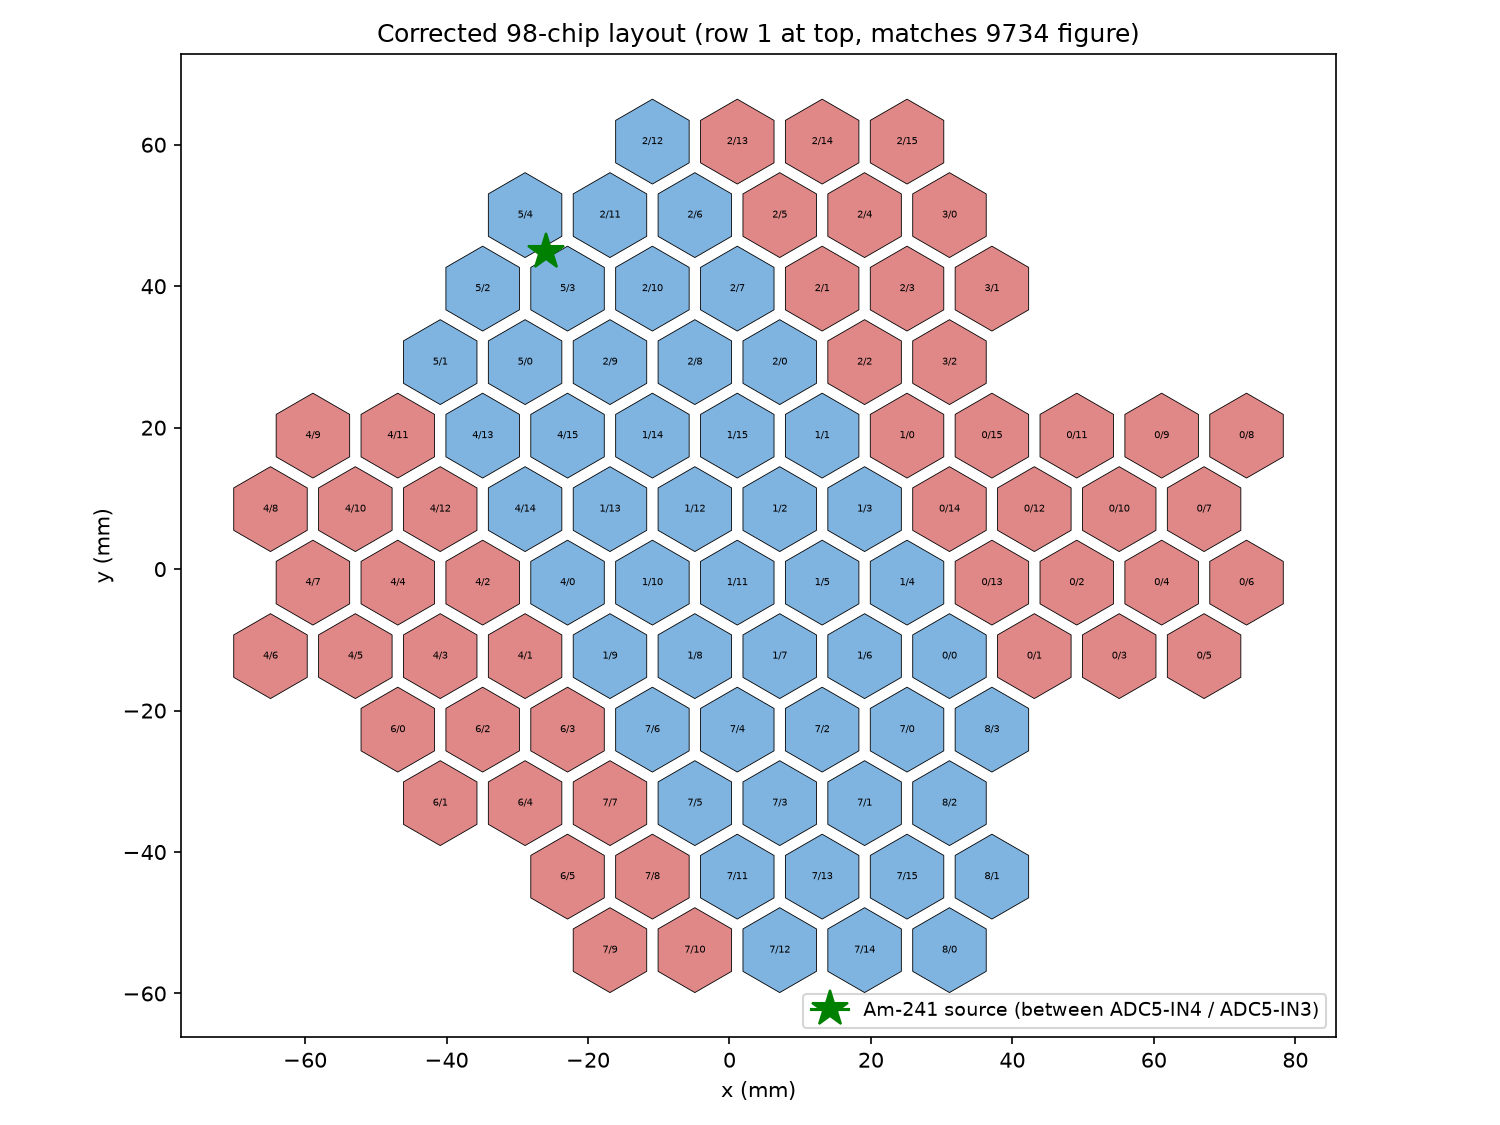
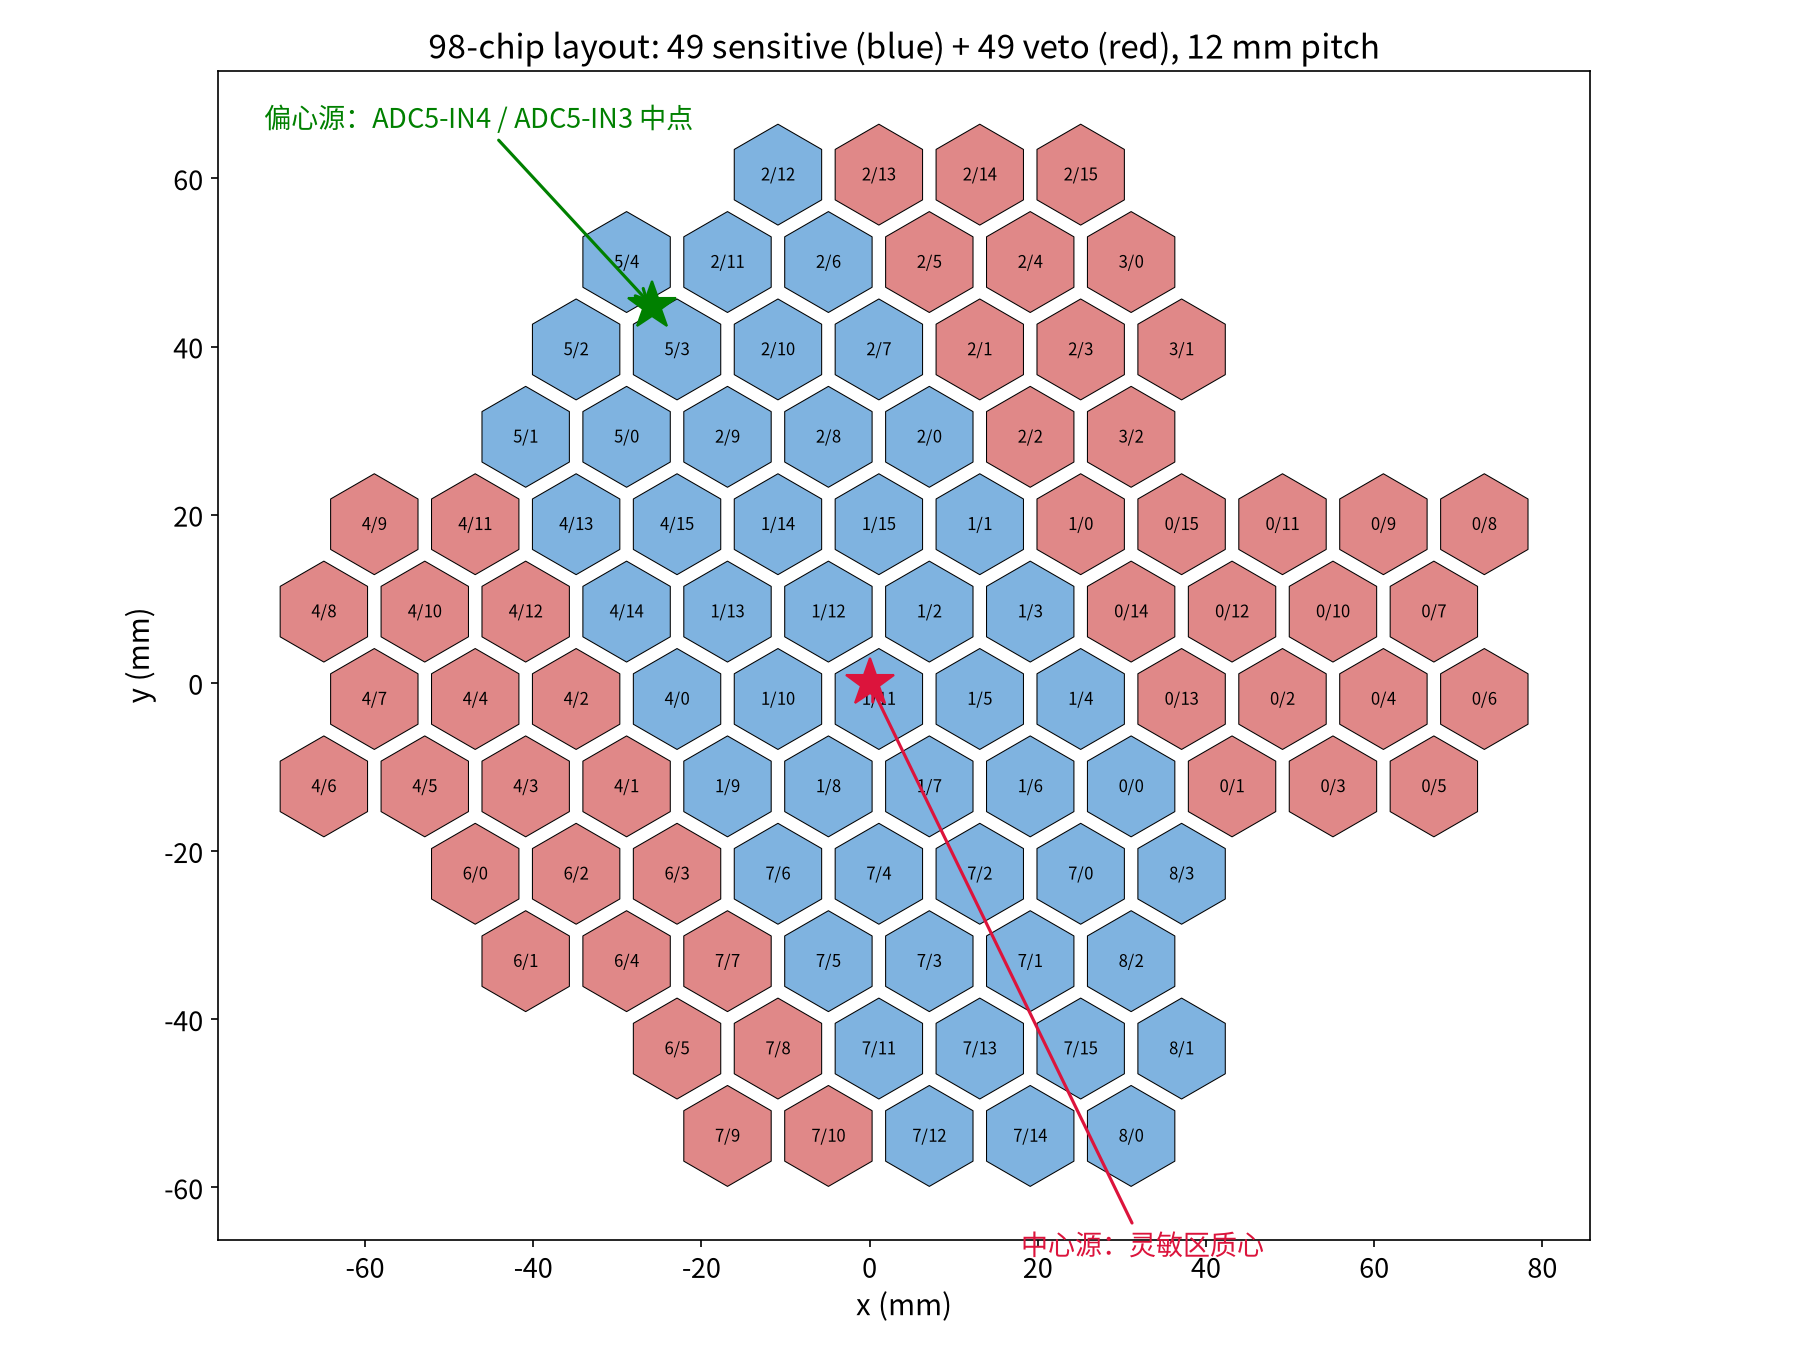
Layout drawing script with large text and both source markers
studies/alpha_array/draw_layout.py: reproducible 98-chip layout figure,
CJK font, edge source (ADC5-IN4/IN3 midpoint) and central source
(sensitive centroid) marked with callouts.

diff --git a/studies/alpha_array/draw_layout.py b/studies/alpha_array/draw_layout.py
@@ -1,0 +1,76 @@
+#!/usr/bin/env python3
+"""Draw the real 98-chip layout with large text and both source markers.
+
+Usage: draw_layout.py [--layout config/array_98ch.csv] [--out array_98ch_labeled.png]
+Reads the corrected layout CSV (row 1 at top), marks the edge source
+(midpoint of ADC5-IN4 / ADC5-IN3) and the central source (sensitive centroid).
+"""
+
+import argparse
+import pathlib
+
+import numpy as np
+import matplotlib
+matplotlib.use("Agg")
+import matplotlib.pyplot as plt
+from matplotlib.patches import RegularPolygon
+from matplotlib import font_manager
+
+font_manager.fontManager.addfont("/usr/share/fonts/opentype/noto/NotoSansCJK-Regular.ttc")
+
+plt.rcParams.update({
+    "font.family": "Noto Sans CJK SC",
+    "axes.unicode_minus": False,
+    "font.size": 13,
+    "axes.titlesize": 16,
+    "axes.labelsize": 14,
+    "xtick.labelsize": 13,
+    "ytick.labelsize": 13,
+    "legend.fontsize": 12,
+})
+
+
+def main():
+    ap = argparse.ArgumentParser(description=__doc__)
+    ap.add_argument("--layout", type=pathlib.Path,
+                    default=pathlib.Path(__file__).resolve().parent / "config" / "array_98ch.csv")
+    ap.add_argument("--out", type=pathlib.Path,
+                    default=pathlib.Path(__file__).resolve().parent / "config" / "array_98ch_labeled.png")
+    args = ap.parse_args()
+
+    import pandas as pd
+    df = pd.read_csv(args.layout, comment="#")
+    df = df.rename(columns={"channel": "chip", "x_mm": "x", "y_mm": "y"})
+
+    pos = {r.chip: (r.x, r.y) for r in df.itertuples()}
+    edge = tuple((np.array(pos["ADC5-IN4"]) + np.array(pos["ADC5-IN3"])) / 2.0)
+    central = (0.0, 0.0)  # sensitive centroid (layout is centred on it)
+
+    fig, ax = plt.subplots(figsize=(12, 9))
+    for r in df.itertuples():
+        color = "#7fb3e0" if r.role == "sensitive" else "#e08888"
+        ax.add_patch(RegularPolygon((r.x, r.y), 6, radius=6.0,
+                                    facecolor=color, edgecolor="k", lw=0.5))
+        ax.text(r.x, r.y, r.chip.replace("ADC", "").replace("-IN", "/"),
+                ha="center", va="center", fontsize=8)
+
+    # source markers with callouts placed outside the array
+    ax.plot(*edge, marker="*", color="green", markersize=24, zorder=5)
+    ax.annotate("偏心源：ADC5-IN4 / ADC5-IN3 中点",
+                xy=edge, xytext=(-72, 66), fontsize=13, color="green",
+                arrowprops=dict(arrowstyle="->", color="green", lw=1.5))
+    ax.plot(*central, marker="*", color="crimson", markersize=24, zorder=5)
+    ax.annotate("中心源：灵敏区质心",
+                xy=central, xytext=(18, -68), fontsize=13, color="crimson",
+                arrowprops=dict(arrowstyle="->", color="crimson", lw=1.5))
+
+    ax.set_aspect("equal"); ax.autoscale_view()
+    ax.set_xlabel("x (mm)"); ax.set_ylabel("y (mm)")
+    ax.set_title("98-chip layout: 49 sensitive (blue) + 49 veto (red), 12 mm pitch")
+    fig.tight_layout()
+    fig.savefig(args.out, dpi=150)
+    print("wrote", args.out)
+
+
+if __name__ == "__main__":
+    main()
